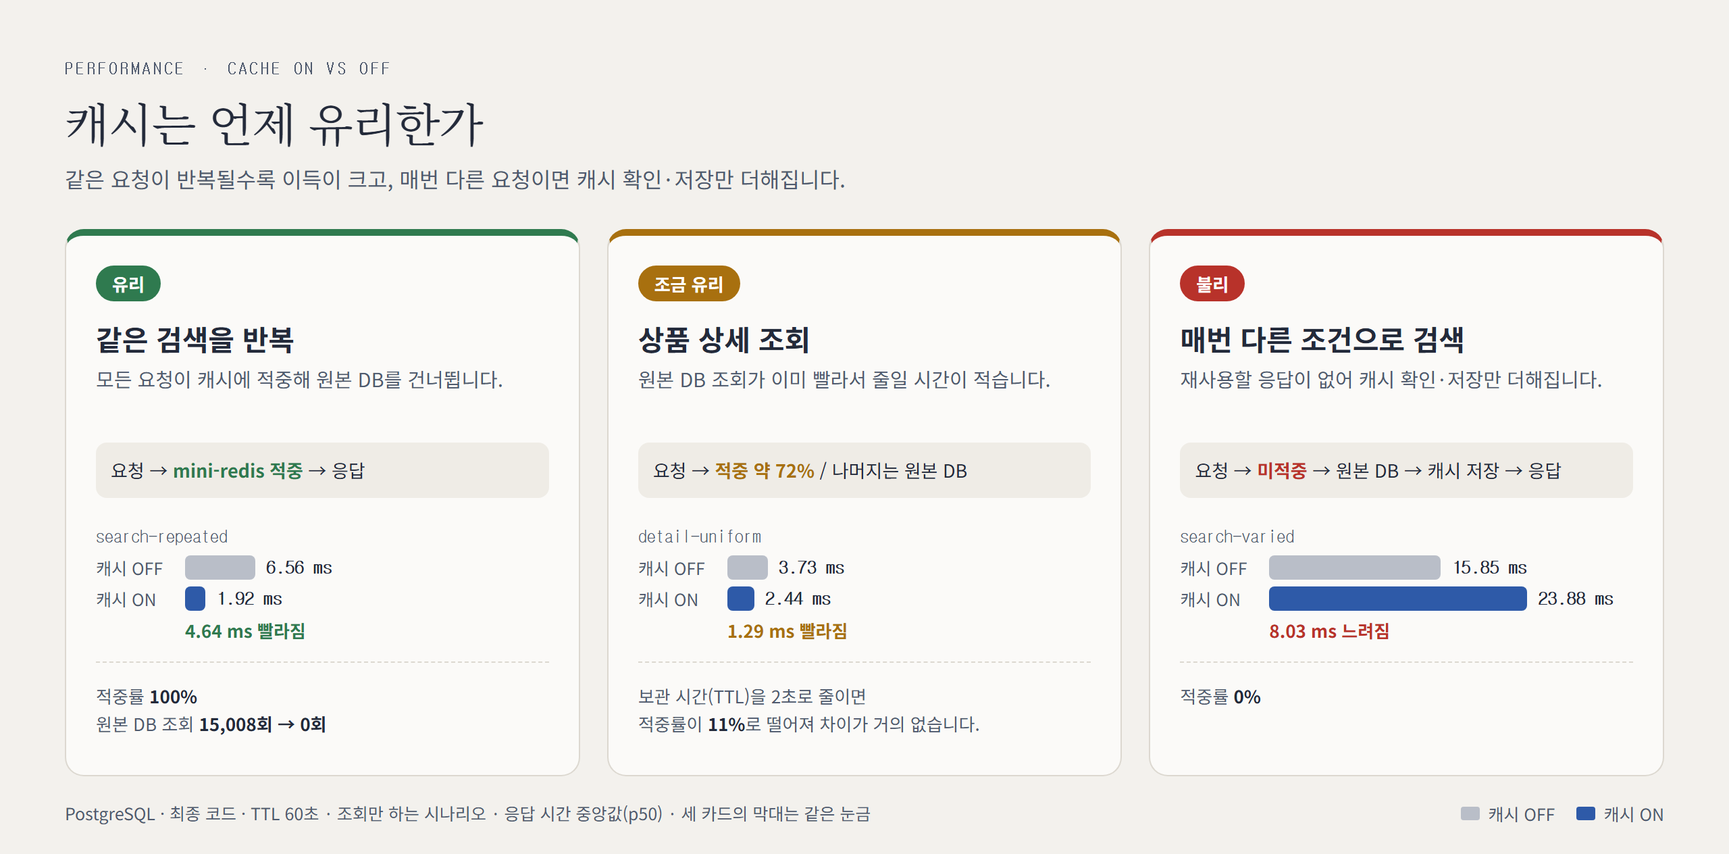
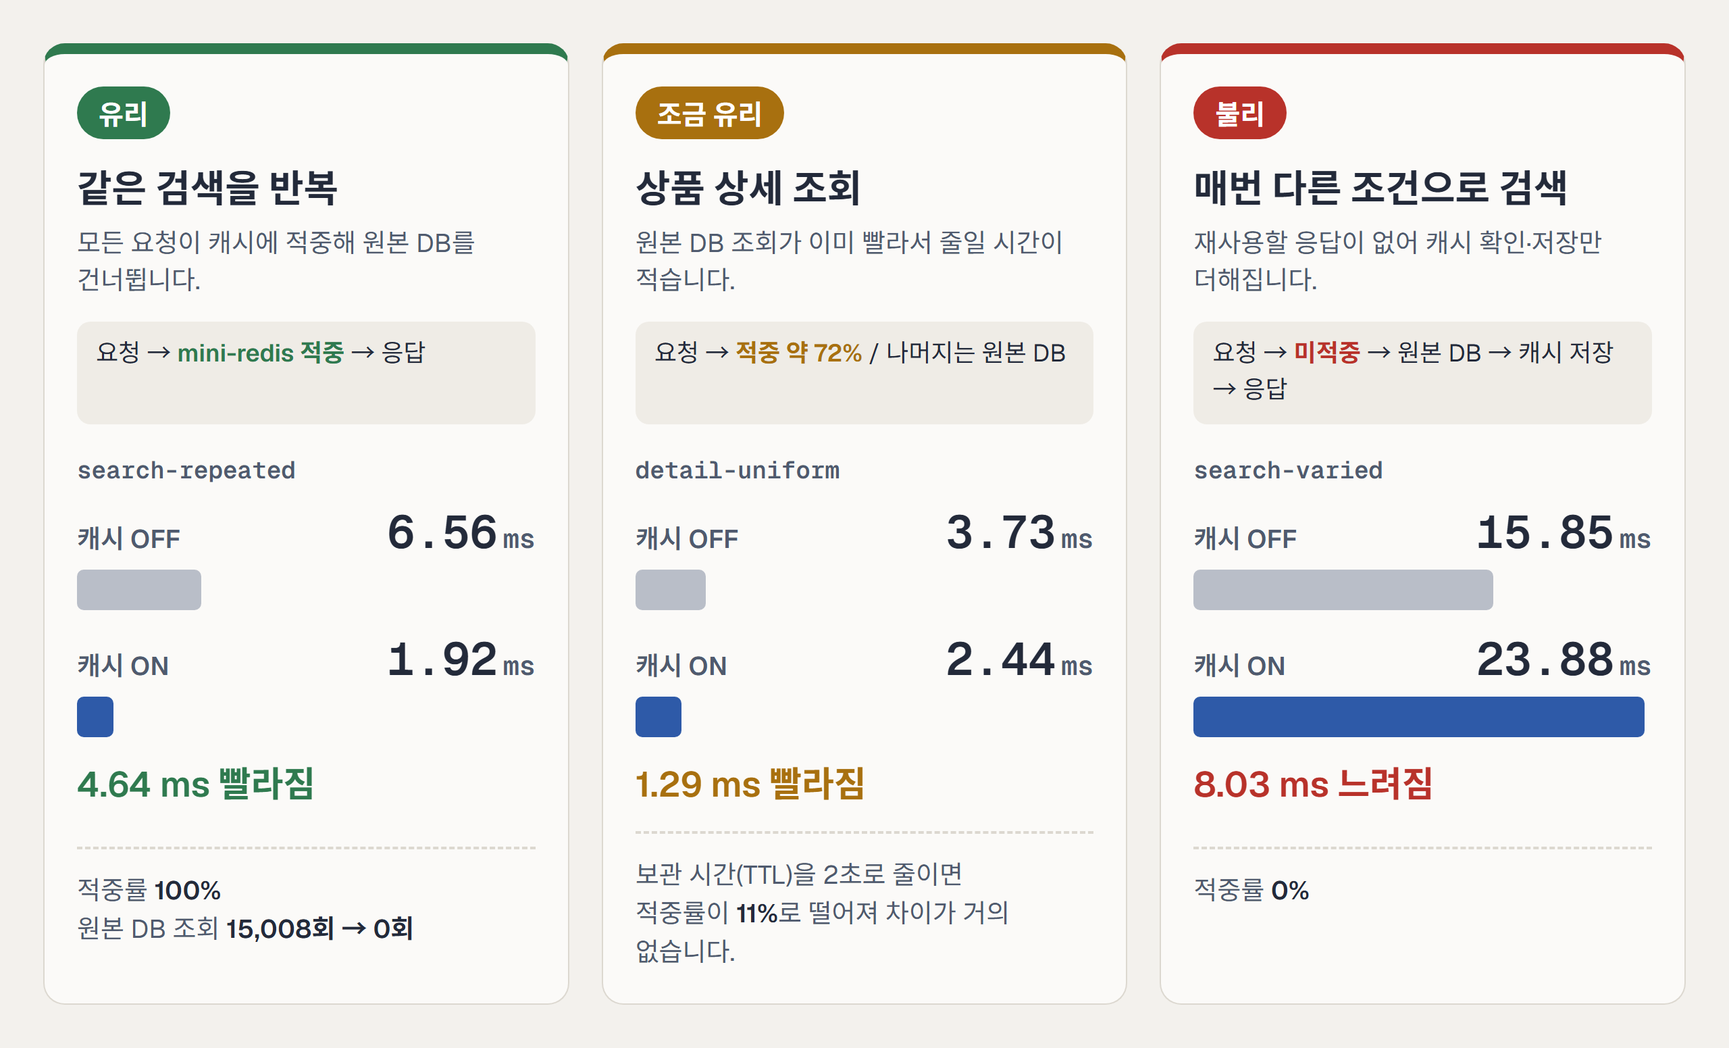
상품 조회 데모와 캐시 성능 비교 자료를 정리합니다

diff --git a/docs/images/mini-redis-cache-heatmap.html b/docs/images/mini-redis-cache-heatmap.html
@@ -1,43 +1,34 @@
 <!DOCTYPE html>
 <html lang="ko"><head><meta charset="UTF-8"><title>캐시를 켜면 응답 시간이 얼마나 바뀌나</title>
-<link href="https://fonts.googleapis.com/css2?family=Instrument+Serif&family=Geist:wght@400;500;600&family=Geist+Mono:wght@400;500;600&family=Noto+Sans+KR:wght@400;500;600;700&family=Noto+Serif+KR:wght@400&display=swap" rel="stylesheet">
+<link href="https://fonts.googleapis.com/css2?family=Instrument+Serif&family=Geist:wght@400;500;600&family=Geist+Mono:wght@400;500;600&family=Noto+Sans+KR:wght@400;500;600;700&display=swap" rel="stylesheet">
 <!-- 원본입니다. 그림을 바꾸면 이 파일을 고치고 같은 이름의 .png를 다시 만듭니다.
-     숫자: PostgreSQL, 최종 코드(1a64bd7), 조회 p50 3회 중앙값. 출처는 ../measurements/cache-demo/010-DA-postgres-final-grid.md입니다.
-     칸 색과 큰 숫자 = 캐시 ON p50 − OFF p50. 색은 README 배너와 구조 그림에 맞췄습니다. -->
+     숫자: PostgreSQL, 최종 코드(1a64bd7), TTL 60초, 조회 p50 3회 중앙값. 출처는 ../measurements/cache-demo/010-DA-postgres-final-grid.md입니다.
+     칸 색과 큰 숫자 = 캐시 ON p50 − OFF p50. 색은 README 배너와 구조 그림에 맞췄습니다.
+     제목, 설명, 측정 조건은 README의 글로 둡니다. TTL 2초 결과는 측정 기록에 있습니다. -->
 <style>
 *,*::before,*::after{box-sizing:border-box;margin:0;padding:0}
 :root{--paper:#f3f1ed;--card:#fbfaf8;--ink:#232a3a;--muted:#4f5a6e;--line:#dcd8d0;
---sans:'Geist','Noto Sans KR','Malgun Gothic',sans-serif;--serif:'Instrument Serif','Noto Serif KR',serif;--mono:'Geist Mono',ui-monospace,monospace}
+--sans:'Geist','Noto Sans KR','Malgun Gothic',sans-serif;--mono:'Geist Mono',ui-monospace,monospace}
 body{font-family:var(--sans);background:var(--paper);color:var(--ink);word-break:keep-all}
-.frame{width:1280px;padding:44px 48px 32px}
-.eyebrow{font-family:var(--mono);font-size:12px;letter-spacing:.18em;text-transform:uppercase;color:var(--muted);margin-bottom:8px}
-h1{font-family:var(--serif);font-weight:400;font-size:34px;letter-spacing:-.02em;margin-bottom:6px}
-.lede{font-size:16px;color:var(--muted);margin-bottom:22px}
-.panels{display:grid;grid-template-columns:1fr 1fr;gap:20px}
-.panel{background:var(--card);border:1px solid var(--line);border-radius:14px;padding:18px 18px 14px}
-.panel h2{font-size:17px;font-weight:700;margin-bottom:10px}
-table{width:100%;border-collapse:separate;border-spacing:3px;table-layout:fixed}
-thead th{font-size:11.5px;font-weight:600;color:var(--muted);padding-bottom:4px}
-th.grp{width:58px;font-size:12.5px;font-weight:700;text-align:left;vertical-align:middle;line-height:1.3}
-th.sc{width:104px;font-size:12.5px;font-weight:600;text-align:left;line-height:1.25}
-th.sc code{display:block;font-family:var(--mono);font-size:10px;font-weight:400;color:var(--muted)}
-tr.gs > *{border-top:0} tr.gs:not(:first-child) > *{padding-top:0}
-tbody tr.gs:not(:first-child) td, tbody tr.gs:not(:first-child) th{box-shadow:0 -5px 0 -2px var(--card)}
-td{border-radius:6px;padding:7px 4px 6px;text-align:center;height:62px}
-td b{display:block;font-family:var(--mono);font-size:15px;font-weight:600}
-td span{display:block;font-family:var(--mono);font-size:10.5px;opacity:.85;margin-top:1px}
-td small{display:block;font-size:10.5px;opacity:.8}
+.frame{width:1280px;padding:32px}
+.panel{background:var(--card);border:1px solid var(--line);border-radius:16px;padding:20px 20px 16px}
+table{width:100%;border-collapse:separate;border-spacing:5px;table-layout:fixed}
+thead th{font-size:21px;font-weight:700;color:var(--muted);padding-bottom:6px}
+th.grp{width:120px;font-size:21px;font-weight:700;text-align:left;vertical-align:middle;line-height:1.3}
+th.sc{width:200px;font-size:21px;font-weight:600;text-align:left;line-height:1.3}
+th.sc code{display:block;font-family:var(--mono);font-size:15px;font-weight:500;color:var(--muted);margin-top:2px}
+tbody tr.gs:not(:first-child) td, tbody tr.gs:not(:first-child) th{box-shadow:0 -8px 0 -3px var(--card)}
+td{border-radius:8px;padding:10px 6px 9px;text-align:center;height:112px}
+td b{display:block;font-family:var(--mono);font-size:36px;font-weight:600;line-height:1.15}
+td span{display:block;font-family:var(--mono);font-size:19px;opacity:.9;margin-top:4px}
+td small{display:block;font-size:17px;opacity:.85;margin-top:1px}
 .g2{background:#2f7a4f;color:#fff} .g1{background:#a9d3b6;color:#163d27}
 .n{background:#e6e3dc;color:var(--ink)}
 .o1{background:#f1c9a5;color:#5a2a0c} .o2{background:#b8322a;color:#fff}
-.note{margin-top:16px;display:flex;justify-content:space-between;align-items:center;font-size:12.5px;color:var(--muted)}
-.legend span{display:inline-flex;align-items:center;gap:6px;margin-left:14px}
-.legend i{width:14px;height:10px;border-radius:2px;display:inline-block}
+.legend{margin-top:22px;display:flex;justify-content:center;flex-wrap:wrap;gap:12px 34px;font-size:22px;font-weight:600;color:var(--ink)}
+.legend span{display:inline-flex;align-items:center;gap:10px}
+.legend i{width:30px;height:22px;border-radius:4px;display:inline-block}
 </style></head><body><div class="frame">
-<p class="eyebrow">Performance · PostgreSQL · 18 scenarios</p>
-<h1>캐시를 켜면 응답 시간이 얼마나 바뀌나</h1>
-<p class="lede">같은 조건을 반복하면 어느 칸에서나 빨라지고, 매번 다른 조건이면 어느 칸에서나 느려집니다.</p>
-<div class="panels"><section class="panel"><h2>TTL 60초</h2><table><thead><tr><th colspan="2"></th><th>조회 100%</th><th>조회 99% · 쓰기 1%</th><th>조회 90% · 쓰기 10%</th></tr></thead><tbody><tr class="gs"><th class="grp" rowspan="2">같은 조건 반복</th><th class="sc">검색<code>search-repeated</code></th><td class="g2"><b>−4.64 ms</b><span>6.56 → 1.92</span><small>적중 100%</small></td><td class="g2"><b>−4.46 ms</b><span>6.72 → 2.26</span><small>적중 99.1%</small></td><td class="g2"><b>−4.79 ms</b><span>9.39 → 4.60</span><small>적중 90.3%</small></td></tr><tr><th class="sc">목록<code>list-repeated</code></th><td class="g2"><b>−2.64 ms</b><span>4.61 → 1.97</span><small>적중 100%</small></td><td class="g2"><b>−2.64 ms</b><span>4.77 → 2.13</span><small>적중 99.1%</small></td><td class="g1"><b>−1.38 ms</b><span>5.32 → 3.94</span><small>적중 90.3%</small></td></tr><tr class="gs"><th class="grp" rowspan="2">상품 상세</th><th class="sc">인기 상품에 집중<code>detail-zoomed</code></th><td class="g1"><b>−1.52 ms</b><span>3.64 → 2.12</span><small>적중 78.0%</small></td><td class="g1"><b>−1.62 ms</b><span>3.94 → 2.32</span><small>적중 77.0%</small></td><td class="g1"><b>−0.90 ms</b><span>3.62 → 2.72</span><small>적중 70.2%</small></td></tr><tr><th class="sc">고르게 조회<code>detail-uniform</code></th><td class="g1"><b>−1.29 ms</b><span>3.73 → 2.44</span><small>적중 71.7%</small></td><td class="g1"><b>−1.26 ms</b><span>3.78 → 2.52</span><small>적중 70.9%</small></td><td class="g1"><b>−0.59 ms</b><span>4.49 → 3.90</span><small>적중 64.5%</small></td></tr><tr class="gs"><th class="grp" rowspan="2">매번 다른 조건</th><th class="sc">목록<code>list-varied</code></th><td class="o2"><b>+3.11 ms</b><span>11.79 → 14.90</span><small>적중 0%</small></td><td class="o1"><b>+2.77 ms</b><span>11.53 → 14.30</span><small>적중 0%</small></td><td class="o2"><b>+3.53 ms</b><span>12.14 → 15.67</span><small>적중 0%</small></td></tr><tr><th class="sc">검색<code>search-varied</code></th><td class="o2"><b>+8.03 ms</b><span>15.85 → 23.88</span><small>적중 0%</small></td><td class="o2"><b>+6.67 ms</b><span>16.23 → 22.90</span><small>적중 0%</small></td><td class="o2"><b>+6.69 ms</b><span>15.96 → 22.65</span><small>적중 0%</small></td></tr></tbody></table></section><section class="panel"><h2>TTL 2초</h2><table><thead><tr><th colspan="2"></th><th>조회 100%</th><th>조회 99% · 쓰기 1%</th><th>조회 90% · 쓰기 10%</th></tr></thead><tbody><tr class="gs"><th class="grp" rowspan="2">같은 조건 반복</th><th class="sc">검색<code>search-repeated</code></th><td class="g2"><b>−4.12 ms</b><span>6.24 → 2.12</span><small>적중 99.9%</small></td><td class="g2"><b>−4.26 ms</b><span>6.53 → 2.27</span><small>적중 99.1%</small></td><td class="g2"><b>−4.99 ms</b><span>9.47 → 4.48</span><small>적중 90.3%</small></td></tr><tr><th class="sc">목록<code>list-repeated</code></th><td class="g2"><b>−2.54 ms</b><span>4.55 → 2.01</span><small>적중 99.9%</small></td><td class="g1"><b>−1.91 ms</b><span>3.94 → 2.03</span><small>적중 99.1%</small></td><td class="g1"><b>−1.67 ms</b><span>5.54 → 3.87</span><small>적중 90.3%</small></td></tr><tr class="gs"><th class="grp" rowspan="2">상품 상세</th><th class="sc">인기 상품에 집중<code>detail-zoomed</code></th><td class="n"><b>−0.14 ms</b><span>3.61 → 3.47</span><small>적중 22.7%</small></td><td class="n"><b>−0.13 ms</b><span>3.04 → 2.91</span><small>적중 22.7%</small></td><td class="n"><b>+0.48 ms</b><span>4.50 → 4.98</span><small>적중 21.4%</small></td></tr><tr><th class="sc">고르게 조회<code>detail-uniform</code></th><td class="n"><b>+0.23 ms</b><span>3.76 → 3.99</span><small>적중 11.1%</small></td><td class="n"><b>+0.31 ms</b><span>3.74 → 4.05</span><small>적중 11.3%</small></td><td class="o1"><b>+0.66 ms</b><span>4.47 → 5.13</span><small>적중 10.4%</small></td></tr><tr class="gs"><th class="grp" rowspan="2">매번 다른 조건</th><th class="sc">목록<code>list-varied</code></th><td class="o2"><b>+3.47 ms</b><span>11.48 → 14.95</span><small>적중 0%</small></td><td class="o1"><b>+2.32 ms</b><span>11.54 → 13.86</span><small>적중 0%</small></td><td class="o2"><b>+3.40 ms</b><span>12.88 → 16.28</span><small>적중 0%</small></td></tr><tr><th class="sc">검색<code>search-varied</code></th><td class="o2"><b>+7.74 ms</b><span>15.36 → 23.10</span><small>적중 0%</small></td><td class="o2"><b>+5.35 ms</b><span>16.16 → 21.51</span><small>적중 0%</small></td><td class="o2"><b>+6.85 ms</b><span>15.84 → 22.69</span><small>적중 0%</small></td></tr></tbody></table></section></div>
-<div class="note"><span>PostgreSQL · 최종 코드 · 조회 응답 시간 중앙값(p50) · 큰 숫자 = 캐시 ON − OFF · 작은 숫자 = OFF → ON (ms)</span>
-<span class="legend"><span><i class="g2"></i>2 ms 넘게 빨라짐</span><span><i class="g1"></i>빨라짐</span><span><i class="n"></i>±0.5 ms 안</span><span><i class="o1"></i>느려짐</span><span><i class="o2"></i>3 ms 넘게 느려짐</span></span></div>
+<section class="panel"><table><thead><tr><th colspan="2"></th><th>조회 100%</th><th>조회 99% · 쓰기 1%</th><th>조회 90% · 쓰기 10%</th></tr></thead><tbody><tr class="gs"><th class="grp" rowspan="2">같은 조건 반복</th><th class="sc">검색<code>search-repeated</code></th><td class="g2"><b>−4.64 ms</b><span>6.56 → 1.92</span><small>적중 100%</small></td><td class="g2"><b>−4.46 ms</b><span>6.72 → 2.26</span><small>적중 99.1%</small></td><td class="g2"><b>−4.79 ms</b><span>9.39 → 4.60</span><small>적중 90.3%</small></td></tr><tr><th class="sc">목록<code>list-repeated</code></th><td class="g2"><b>−2.64 ms</b><span>4.61 → 1.97</span><small>적중 100%</small></td><td class="g2"><b>−2.64 ms</b><span>4.77 → 2.13</span><small>적중 99.1%</small></td><td class="g1"><b>−1.38 ms</b><span>5.32 → 3.94</span><small>적중 90.3%</small></td></tr><tr class="gs"><th class="grp" rowspan="2">상품 상세</th><th class="sc">인기 상품에 집중<code>detail-zoomed</code></th><td class="g1"><b>−1.52 ms</b><span>3.64 → 2.12</span><small>적중 78.0%</small></td><td class="g1"><b>−1.62 ms</b><span>3.94 → 2.32</span><small>적중 77.0%</small></td><td class="g1"><b>−0.90 ms</b><span>3.62 → 2.72</span><small>적중 70.2%</small></td></tr><tr><th class="sc">고르게 조회<code>detail-uniform</code></th><td class="g1"><b>−1.29 ms</b><span>3.73 → 2.44</span><small>적중 71.7%</small></td><td class="g1"><b>−1.26 ms</b><span>3.78 → 2.52</span><small>적중 70.9%</small></td><td class="g1"><b>−0.59 ms</b><span>4.49 → 3.90</span><small>적중 64.5%</small></td></tr><tr class="gs"><th class="grp" rowspan="2">매번 다른 조건</th><th class="sc">목록<code>list-varied</code></th><td class="o2"><b>+3.11 ms</b><span>11.79 → 14.90</span><small>적중 0%</small></td><td class="o1"><b>+2.77 ms</b><span>11.53 → 14.30</span><small>적중 0%</small></td><td class="o2"><b>+3.53 ms</b><span>12.14 → 15.67</span><small>적중 0%</small></td></tr><tr><th class="sc">검색<code>search-varied</code></th><td class="o2"><b>+8.03 ms</b><span>15.85 → 23.88</span><small>적중 0%</small></td><td class="o2"><b>+6.67 ms</b><span>16.23 → 22.90</span><small>적중 0%</small></td><td class="o2"><b>+6.69 ms</b><span>15.96 → 22.65</span><small>적중 0%</small></td></tr></tbody></table></section>
+<div class="legend"><span><i class="g2"></i>2 ms 넘게 빨라짐</span><span><i class="g1"></i>빨라짐</span><span><i class="o1"></i>느려짐</span><span><i class="o2"></i>3 ms 넘게 느려짐</span></div>
 </div></body></html>

diff --git a/docs/images/mini-redis-cache-when.html b/docs/images/mini-redis-cache-when.html
@@ -3,10 +3,11 @@
 <head>
   <meta charset="UTF-8">
   <title>캐시는 언제 유리한가</title>
-  <link href="https://fonts.googleapis.com/css2?family=Instrument+Serif&family=Geist:wght@400;500;600&family=Geist+Mono:wght@400;500;600&family=Noto+Sans+KR:wght@400;500;600;700&family=Noto+Serif+KR:wght@400&display=swap" rel="stylesheet">
+  <link href="https://fonts.googleapis.com/css2?family=Instrument+Serif&family=Geist:wght@400;500;600&family=Geist+Mono:wght@400;500;600&family=Noto+Sans+KR:wght@400;500;600;700&display=swap" rel="stylesheet">
   <!-- 원본입니다. 그림을 바꾸면 이 파일을 고치고 같은 이름의 .png를 다시 만듭니다.
        숫자: 최종 코드(1a64bd7), TTL 60초, 조회만 하는 조건의 p50. 출처는 ../measurements/cache-demo/010-DA-postgres-final-grid.md입니다.
-       색은 README 배너와 구조 그림에 맞췄습니다. -->
+       색은 README 배너와 구조 그림에 맞췄습니다.
+       제목, 설명, 측정 조건은 README의 글로 둡니다. 막대는 세 카드가 같은 눈금(1 ms = 14px)입니다. -->
   <style>
     *, *::before, *::after { box-sizing: border-box; margin: 0; padding: 0; }
     :root {
@@ -14,45 +15,34 @@
       --line: #dcd8d0; --off: #b9bec8; --on: #2e5aa8;
       --good: #2f7a4f; --mixed: #a8700f; --bad: #b8322a;
       --sans: 'Geist', 'Noto Sans KR', 'Malgun Gothic', sans-serif;
-      --serif: 'Instrument Serif', 'Noto Serif KR', serif;
       --mono: 'Geist Mono', ui-monospace, monospace;
     }
     body { font-family: var(--sans); background: var(--paper); color: var(--ink); word-break: keep-all; }
-    .frame { width: 1280px; padding: 44px 48px 36px; }
-    .eyebrow { font-family: var(--mono); font-size: 12px; letter-spacing: .18em; text-transform: uppercase; color: var(--muted); margin-bottom: 8px; }
-    h1 { font-family: var(--serif); font-weight: 400; font-size: 34px; letter-spacing: -.02em; margin-bottom: 6px; }
-    .lede { font-size: 16px; color: var(--muted); margin-bottom: 26px; }
-    .cards { display: grid; grid-template-columns: repeat(3, 1fr); gap: 20px; }
-    .card { background: var(--card); border: 1px solid var(--line); border-radius: 14px; padding: 22px 22px 20px; display: flex; flex-direction: column; border-top: 5px solid var(--c); }
+    .frame { width: 1280px; padding: 32px; }
+    .cards { display: grid; grid-template-columns: repeat(3, 1fr); gap: 24px; }
+    .card { background: var(--card); border: 1px solid var(--line); border-radius: 16px; padding: 24px; display: flex; flex-direction: column; border-top: 8px solid var(--c); }
     .good { --c: var(--good); } .mixed { --c: var(--mixed); } .bad { --c: var(--bad); }
-    .verdict { display: inline-block; align-self: flex-start; font-size: 13px; font-weight: 700; color: #fff; background: var(--c); border-radius: 999px; padding: 4px 12px; margin-bottom: 12px; }
-    h2 { font-size: 21px; font-weight: 700; margin-bottom: 4px; }
-    .why { font-size: 14.5px; color: var(--muted); line-height: 1.5; min-height: 44px; margin-bottom: 14px; }
-    .path { font-family: var(--sans); font-size: 13.5px; color: var(--ink); background: #efece6; border-radius: 8px; padding: 9px 11px; margin-bottom: 18px; line-height: 1.7; }
-    .path b { color: var(--c); font-weight: 600; }
-    .group { margin-bottom: 14px; }
-    .db code { font-family: var(--mono); font-weight: 500; }
-    .db { font-size: 13px; font-weight: 600; color: var(--muted); margin-bottom: 6px; }
-    .row { display: grid; grid-template-columns: 58px 1fr; align-items: center; gap: 8px; margin-bottom: 5px; }
-    .lab { font-family: var(--sans); font-size: 12.5px; color: var(--muted); }
-    .track { display: flex; align-items: center; gap: 8px; }
-    .bar { height: 18px; border-radius: 4px; }
+    .verdict { display: inline-block; align-self: flex-start; font-size: 20px; font-weight: 700; color: #fff; background: var(--c); border-radius: 999px; padding: 5px 16px; margin-bottom: 14px; }
+    h2 { font-size: 28px; font-weight: 700; margin-bottom: 8px; }
+    .why { font-size: 19px; color: var(--muted); line-height: 1.45; min-height: 56px; margin-bottom: 16px; }
+    .path { font-size: 18px; color: var(--ink); background: #efece6; border-radius: 10px; padding: 10px 14px; margin-bottom: 22px; line-height: 1.5; min-height: 76px; }
+    .path b { color: var(--c); font-weight: 700; }
+    .group { margin-bottom: 18px; }
+    .db { font-family: var(--mono); font-size: 18px; font-weight: 600; color: var(--muted); margin-bottom: 12px; }
+    .row { margin-bottom: 14px; }
+    .head { display: flex; justify-content: space-between; align-items: baseline; margin-bottom: 6px; }
+    .lab { font-size: 19px; font-weight: 600; color: var(--muted); }
+    .val { font-family: var(--mono); font-size: 34px; font-weight: 600; white-space: nowrap; }
+    .val small { font-size: 20px; color: var(--muted); margin-left: 4px; }
+    .bar { height: 30px; border-radius: 5px; }
     .bar.off { background: var(--off); } .bar.on { background: var(--on); }
-    .val { font-family: var(--mono); font-size: 13.5px; font-weight: 600; white-space: nowrap; }
-    .delta { font-size: 13px; font-weight: 700; color: var(--c); margin-left: 66px; }
-    .foot { min-height: 64px; margin-top: auto; padding-top: 14px; border-top: 1px dashed var(--line); font-size: 13px; color: var(--muted); line-height: 1.6; }
+    .delta { font-size: 26px; font-weight: 700; color: var(--c); margin-top: 4px; }
+    .foot { min-height: 92px; margin-top: auto; padding-top: 16px; border-top: 2px dashed var(--line); font-size: 19px; color: var(--muted); line-height: 1.5; }
     .foot strong { color: var(--ink); }
-    .note { margin-top: 18px; display: flex; justify-content: space-between; font-size: 12.5px; color: var(--muted); }
-    .legend span { display: inline-flex; align-items: center; gap: 6px; margin-left: 16px; }
-    .legend i { width: 14px; height: 10px; border-radius: 2px; display: inline-block; }
   </style>
 </head>
 <body>
 <div class="frame">
-  <p class="eyebrow">Performance · cache on vs off</p>
-  <h1>캐시는 언제 유리한가</h1>
-  <p class="lede">같은 요청이 반복될수록 이득이 크고, 매번 다른 요청이면 캐시 확인·저장만 더해집니다.</p>
-
   <div class="cards">
     <!-- 1. 반복 -->
     <section class="card good">
@@ -61,9 +51,9 @@
       <p class="why">모든 요청이 캐시에 적중해 원본 DB를 건너뜁니다.</p>
       <div class="path">요청 → <b>mini-redis 적중</b> → 응답</div>
       <div class="group">
-        <div class="db"><code>search-repeated</code></div>
-        <div class="row"><span class="lab">캐시 OFF</span><div class="track"><div class="bar off" style="width:52px"></div><span class="val">6.56 ms</span></div></div>
-        <div class="row"><span class="lab">캐시 ON</span><div class="track"><div class="bar on" style="width:15px"></div><span class="val">1.92 ms</span></div></div>
+        <div class="db">search-repeated</div>
+        <div class="row"><div class="head"><span class="lab">캐시 OFF</span><span class="val">6.56<small>ms</small></span></div><div class="bar off" style="width:92px"></div></div>
+        <div class="row"><div class="head"><span class="lab">캐시 ON</span><span class="val">1.92<small>ms</small></span></div><div class="bar on" style="width:27px"></div></div>
         <div class="delta">4.64 ms 빨라짐</div>
       </div>
       <p class="foot">적중률 <strong>100%</strong><br>원본 DB 조회 <strong>15,008회 → 0회</strong></p>
@@ -76,9 +66,9 @@
       <p class="why">원본 DB 조회가 이미 빨라서 줄일 시간이 적습니다.</p>
       <div class="path">요청 → <b>적중 약 72%</b> / 나머지는 원본 DB</div>
       <div class="group">
-        <div class="db"><code>detail-uniform</code></div>
-        <div class="row"><span class="lab">캐시 OFF</span><div class="track"><div class="bar off" style="width:30px"></div><span class="val">3.73 ms</span></div></div>
-        <div class="row"><span class="lab">캐시 ON</span><div class="track"><div class="bar on" style="width:20px"></div><span class="val">2.44 ms</span></div></div>
+        <div class="db">detail-uniform</div>
+        <div class="row"><div class="head"><span class="lab">캐시 OFF</span><span class="val">3.73<small>ms</small></span></div><div class="bar off" style="width:52px"></div></div>
+        <div class="row"><div class="head"><span class="lab">캐시 ON</span><span class="val">2.44<small>ms</small></span></div><div class="bar on" style="width:34px"></div></div>
         <div class="delta">1.29 ms 빨라짐</div>
       </div>
       <p class="foot">보관 시간(TTL)을 2초로 줄이면<br>적중률이 <strong>11%</strong>로 떨어져 차이가 거의 없습니다.</p>
@@ -91,19 +81,15 @@
       <p class="why">재사용할 응답이 없어 캐시 확인·저장만 더해집니다.</p>
       <div class="path">요청 → <b>미적중</b> → 원본 DB → 캐시 저장 → 응답</div>
       <div class="group">
-        <div class="db"><code>search-varied</code></div>
-        <div class="row"><span class="lab">캐시 OFF</span><div class="track"><div class="bar off" style="width:127px"></div><span class="val">15.85 ms</span></div></div>
-        <div class="row"><span class="lab">캐시 ON</span><div class="track"><div class="bar on" style="width:191px"></div><span class="val">23.88 ms</span></div></div>
+        <div class="db">search-varied</div>
+        <div class="row"><div class="head"><span class="lab">캐시 OFF</span><span class="val">15.85<small>ms</small></span></div><div class="bar off" style="width:222px"></div></div>
+        <div class="row"><div class="head"><span class="lab">캐시 ON</span><span class="val">23.88<small>ms</small></span></div><div class="bar on" style="width:334px"></div></div>
         <div class="delta">8.03 ms 느려짐</div>
       </div>
       <p class="foot">적중률 <strong>0%</strong></p>
     </section>
   </div>
 
-  <div class="note">
-    <span>PostgreSQL · 최종 코드 · TTL 60초 · 조회만 하는 시나리오 · 응답 시간 중앙값(p50) · 세 카드의 막대는 같은 눈금</span>
-    <span class="legend"><span><i style="background:var(--off)"></i>캐시 OFF</span><span><i style="background:var(--on)"></i>캐시 ON</span></span>
-  </div>
 </div>
 </body>
 </html>
